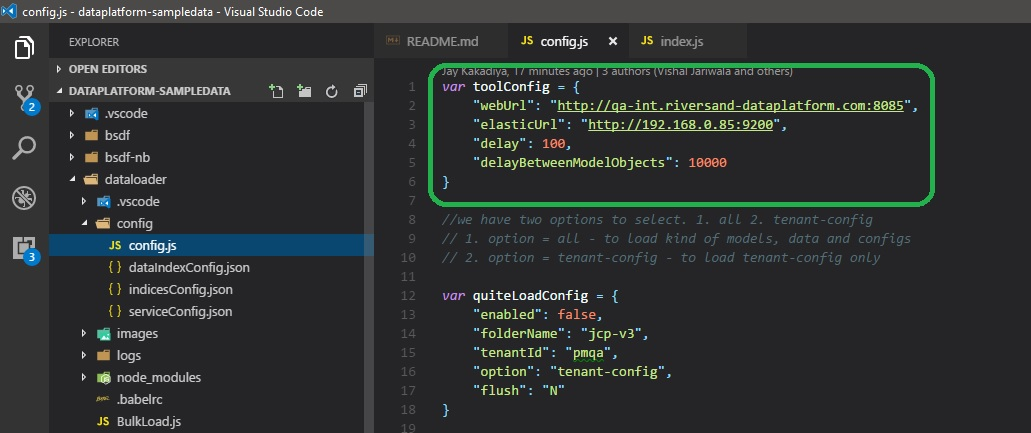
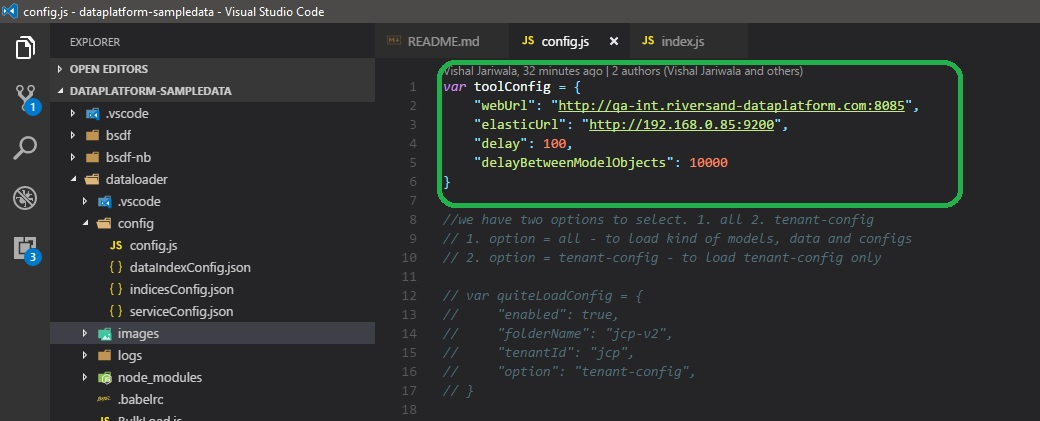
Readme update

diff --git a/dataloader/config/config.js b/dataloader/config/config.js
@@ -9,12 +9,12 @@ var toolConfig = {
 // 1. option = all - to load kind of models, data and configs
 // 2. option = tenant-config - to load tenant-config only
 
-// var quiteLoadConfig = {
-//     "enabled": true,
-//     "folderName": "jcp-v2",
-//     "tenantId": "jcp",
-//     "option": "tenant-config",
-// }
+var quiteLoadConfig = {
+    "enabled": true,
+    "folderName": "jcp-v2",
+    "tenantId": "jcp",
+    "option": "tenant-config",
+}
 
 // quiteLoadConfig = {
 //     "enabled": true,

diff --git a/dataloader/README.md b/dataloader/README.md
@@ -24,6 +24,8 @@ This MUST should be done within a command window opened at the `dataplatform-sam
 
 1. Goto `config.js` inside config/ folder.
 
+    ![Tool config image](images/tool-config.jpg?raw=true)
+
     set config as below,
     
     ```javascript
@@ -34,6 +36,7 @@ This MUST should be done within a command window opened at the `dataplatform-sam
         "delayBetweenModelObjects": 10000
     }
     ```
+
 2. There are tow ways to run data loader tool.
 
     1. Run tool in terminal with following command,
@@ -43,7 +46,7 @@ This MUST should be done within a command window opened at the `dataplatform-sam
           - Server details where it will start loading data as per toolConfig.
           - List of folders where data are present to be loaded in a proper folder structure.
 
-            ![Alt text](images/step-1.jpg?raw=true)
+            ![Tool setup](images/step-1.jpg?raw=true)
 
         Follow up all the question like,
 
@@ -52,15 +55,15 @@ This MUST should be done within a command window opened at the `dataplatform-sam
             2. Good, next question, whats' the tenant Id:
                 - Provide tenant id for which tenant data should be loaded.
                 - After providing tenant id it will show list of options to load, like
-                    ![Alt text](images/step-2.jpg?raw=true)
+                    ![Tool setup steps](images/step-2.jpg?raw=true)
             3. What option you like:
                 - Provide any one option from listed options.
-            4. Ok, last question, do you want to flush the data before starting load? (Y/ N):
-                - For now just give `N` for this. Don't say `Y`. (will be fixed)
                 - After this, tool will start loading data.
 
-    2. Set all the necessary info to load data as below,
+    2. Set all the necessary parameters to load data as below,
         Go to `config.js` and update `quiteLoadConfig` inside it,
+
+        ![Quite load config setup](images/quite-load-config.jpg?raw=true)
 
         `quiteLoadConfig` contains all parameters which are required to load data.
         ```javascript
@@ -69,9 +72,12 @@ This MUST should be done within a command window opened at the `dataplatform-sam
             "folderName": "jcp-v2", // Provide folder name from where data has to be loaded
             "tenantId": "jcp", // Provide tenant id for which tenant data should be loaded
             "option": "tenant-config", // Provide an option to load data as per below screen shot
-            "flush": "N" // This has to be `N` for now
         }
         ```
+
+        options
+        
+        ![Data load options](images/data-load-options.jpg?raw=true "options")
 
         After setting `quiteLoadConfig` run below command,
             `node index.js`
